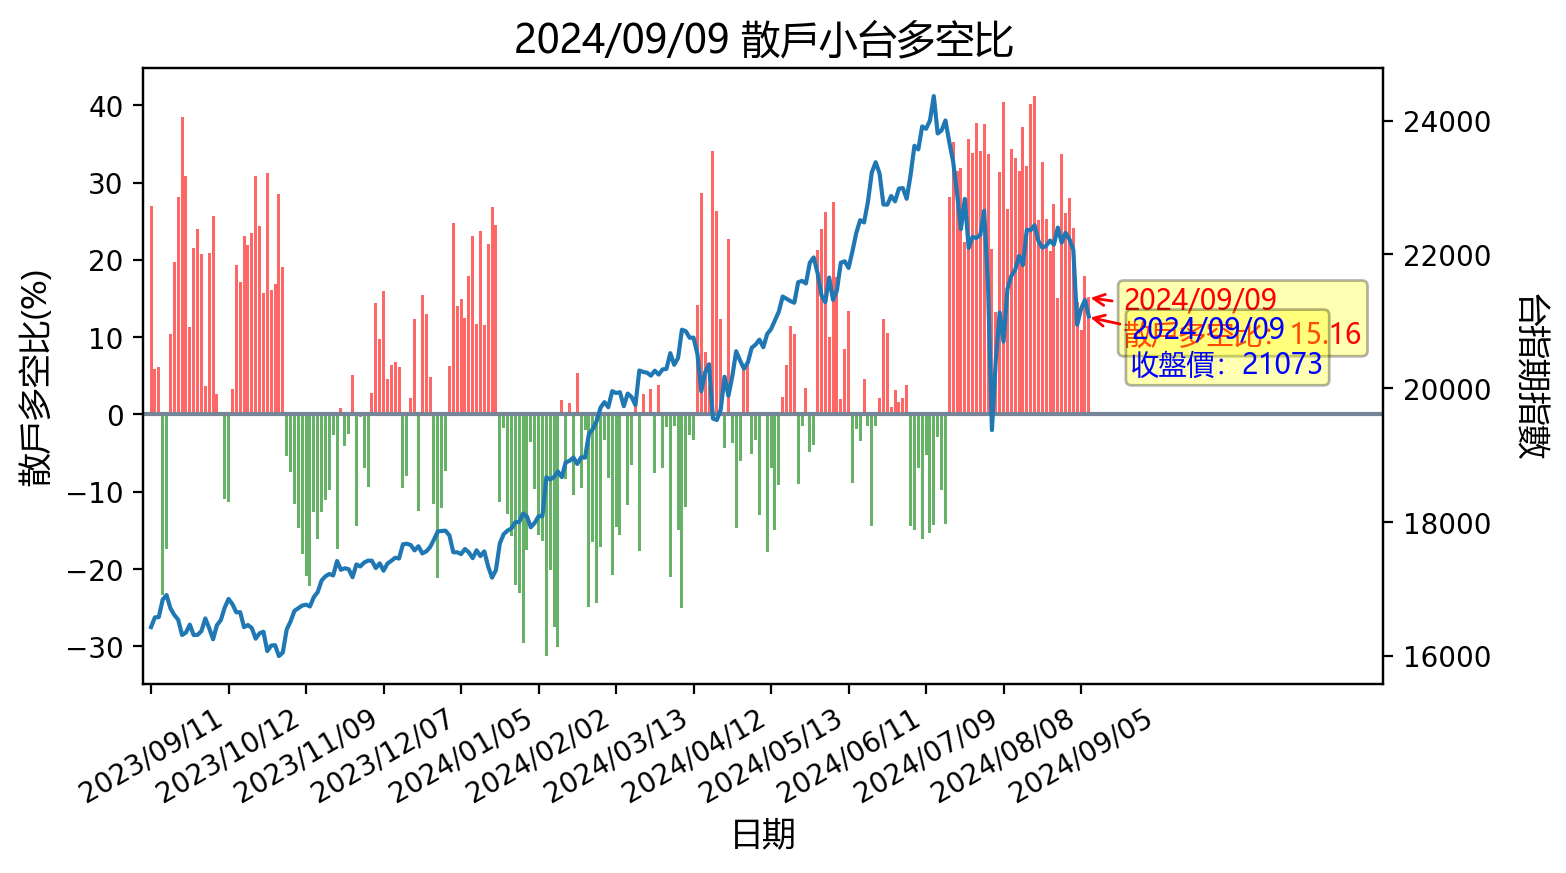
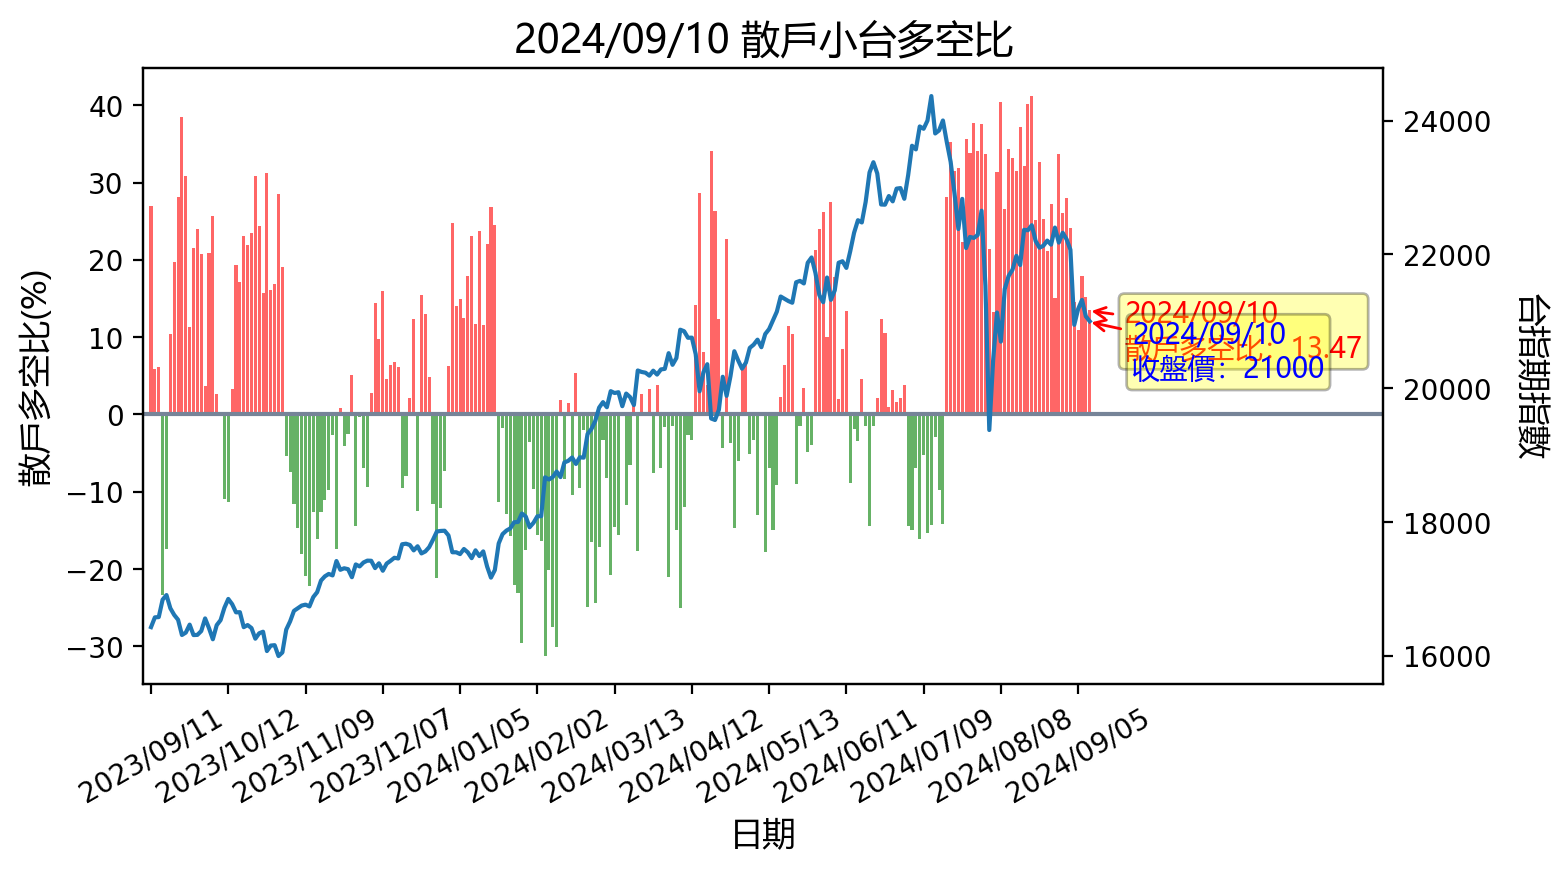
更新時間: Tue Sep 10 16:34:47 CST 2024

diff --git a/README.md b/README.md
@@ -1,12 +1,12 @@
-## 20240909 台指期「預估換倉成本」
+## 20240910 台指期「預估換倉成本」
 ![](images/txfcost.png)
 
-## 20240909 台指期「散戶小台多空比」
+## 20240910 台指期「散戶小台多空比」
 ![](images/bbiri.png)
 
-## 20240909 台指選擇權「Put/Call Ratios」
+## 20240910 台指選擇權「Put/Call Ratios」
 ![](images/pcratio.png)
 
-## 20240909 台指期「大額交易人」
+## 20240910 台指期「大額交易人」
 ![](images/blocktrade.png)
 
